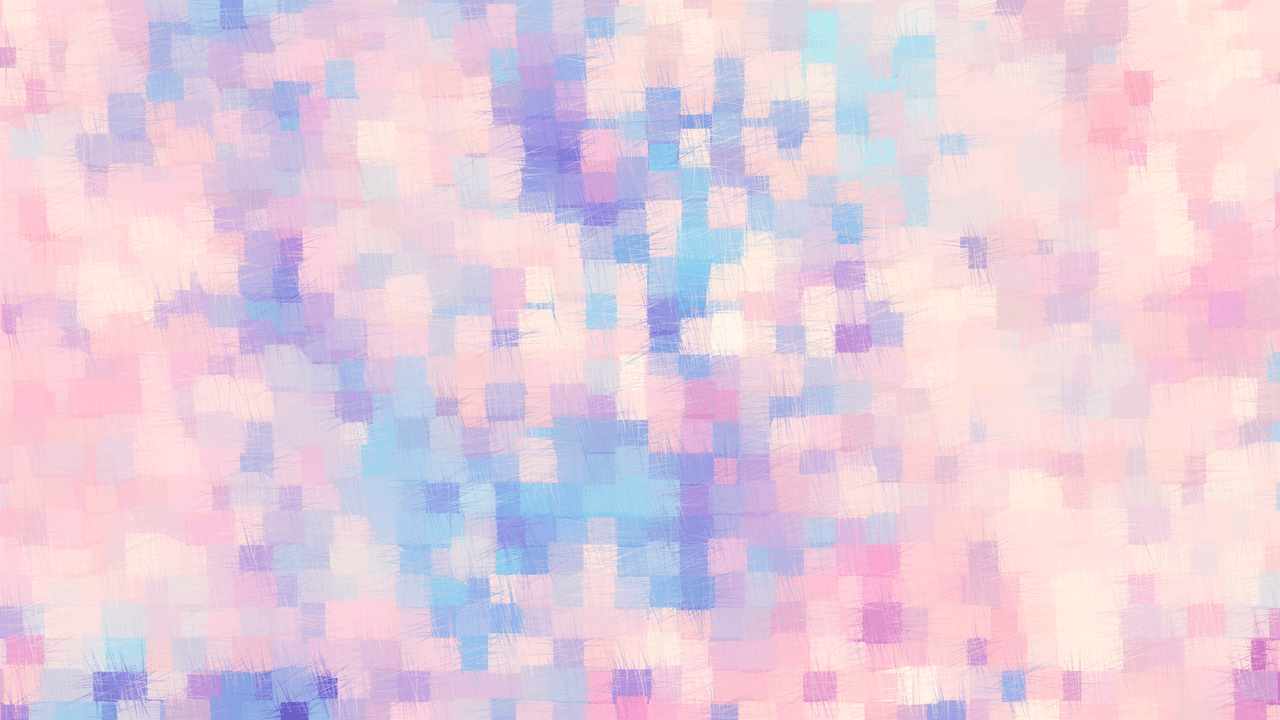
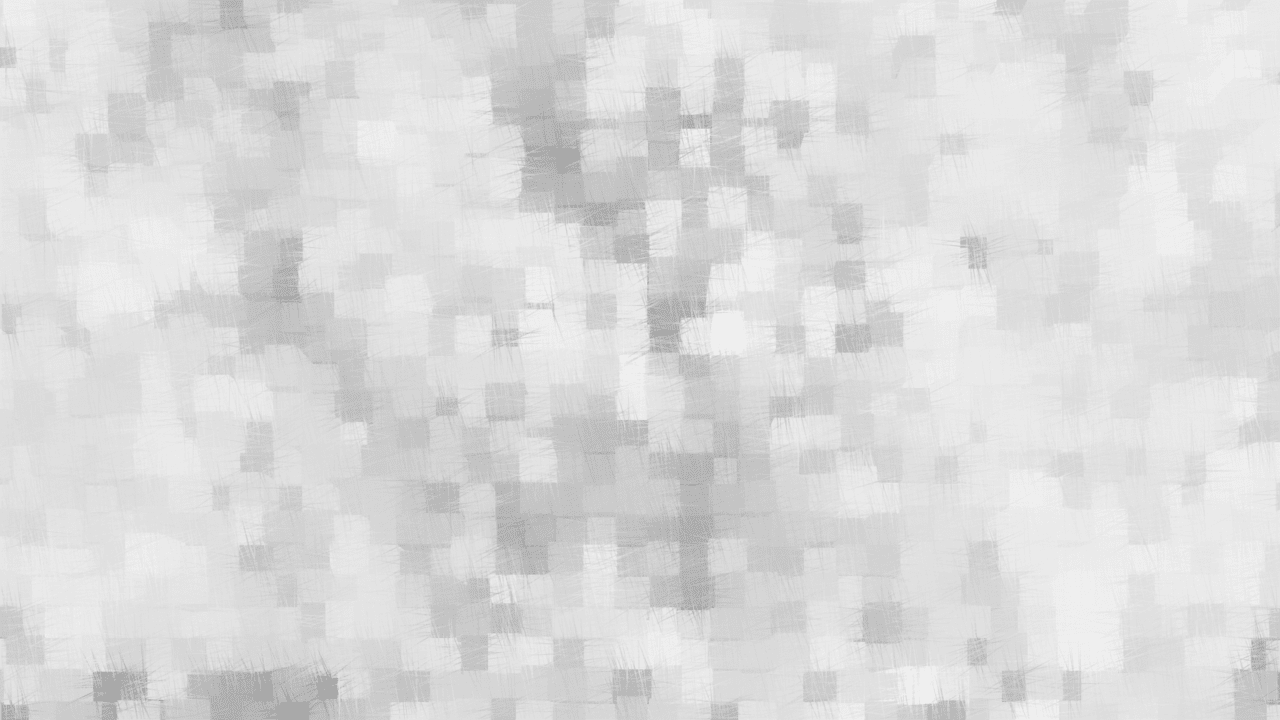
Replaced frontend for shoe display with 404 error

diff --git a/public/css/style.css b/public/css/style.css
@@ -71,29 +71,19 @@ body {
 	overflow: auto;
 }
 
-h1 {
-	user-select: none;
-}
-
 img {
-	width: 100%;
-	height: auto;
-}
-
-.shoe-img img {
-	width: 100%;
-	height: auto;
+	max-width: 100%;
+	max-height: 100%;
 
 	object-fit: cover;
 	object-position: center;
 	aspect-ratio: 1;
 
-	filter: contrast(1.25);
+	filter: contrast(1.125);
 }
 
 .view {
 	width: 100%;
-	/* height: calc(100% - 2rem); */
 }
 
 .container {
@@ -153,121 +143,6 @@ img {
 .max {
 	width: 100%;
 	height: 100%;
-}
-
-/* ========== SHOE CATALOG ========== */
-
-.shoe-card {
-	background: #fffa;
-
-	border: 1px solid black;
-	border-radius: 1rem;
-
-	width: 18rem;
-}
-
-.shoe-img {
-	background: #fff;
-	border: 1px solid #0008;
-	border-radius: 0.75rem;
-
-	overflow: hidden;
-}
-
-.shoe-img img {
-	object-fit: cover;
-	object-position: center;
-	aspect-ratio: 1;
-
-	filter: contrast(1.25);
-}
-
-/********** MESSAGES **********/
-
-.message {
-	background: var(--secondary-bg);
-	color: var(--secondary-fg);
-	border: var(--message-border) solid var(--secondary-fg);
-	border-radius: 0.5rem;
-
-	height: fit-content;
-	width: fit-content;
-	max-width: 100%;
-	padding: 0.5rem 1rem;
-
-	overflow: hidden;
-}
-
-.message.pre-animation {
-	border-width: 0;
-	height: 0;
-	width: 0;
-	padding: 0;
-	opacity: 0;
-}
-
-.message.error {
-	background: var(--error-bg);
-	color: var(--error-fg);
-	border-color: var(--error-fg);
-}
-
-.message.warning {
-	background: var(--warning-bg);
-	color: var(--warning-fg);
-	border-color: var(--warning-fg);
-}
-
-.message.success {
-	background: var(--success-bg);
-	color: var(--success-fg);
-	border-color: var(--success-fg);
-}
-
-.message.info {
-	background: var(--info-bg);
-	color: var(--info-fg);
-	border-color: var(--info-fg);
-}
-
-/********** TRANSITIONS / ANIMATIONS **********/
-
-.slide-in-out {
-	animation: slide-in-out var(--transition-time);
-}
-
-@keyframes slide-in-out {
-	0% {
-		border-width: 0;
-		height: 0;
-		width: 0;
-		padding: 0;
-		opacity: 0;
-	}
-
-	6.25% {
-		border-width: var(--message-border);
-		height: fit-content;
-		width: fit-content;
-		padding: 0.5em 1em;
-		opacity: 1;
-	}
-
-	87.5% {
-		border-width: var(--message-border);
-		height: fit-content;
-		width: fit-content;
-		padding: 0.5em 1em;
-		opacity: 1;
-	}
-
-	100% {
-		border-width: 0;
-		height: 0;
-		width: 0;
-		padding: 0;
-		opacity: 0;
-	}
 }
 
 /********** FUNCTIONALITY **********/

diff --git a/routes/catalog_routes.js b/routes/catalog_routes.js
@@ -1,21 +1,9 @@
 import { Router } from "express";
-import { services } from "../index.js";
-import axios from "axios";
 
 const router = Router();
 
-router.get('/', async (req, res) => {
-	try {
-		const host = `${req.protocol}://${req.get('host')}${req.originalUrl}`;
-		const shoes = (await axios.get(`${host}api/shoes`)).data;
-
-		res.render('index', {
-			title: "Shoe Catalog",
-			shoes
-		});
-	} catch (error) {
-		res.status(500).send('Error');
-	}
+router.get('/', (req, res) => {
+	res.render('index');
 });
 
 export default router;

diff --git a/routes/catalog_api.js b/routes/catalog_api.js
@@ -25,6 +25,11 @@ shoes_api.get('/brand/:brandname/size/:size', async (req, res) => {
 	res.status(200).send(await services.getShoes(filters));
 });
 
+shoes_api.get('/size/:size/brand/:brandname', async (req, res) => {
+	const filters = { brand: req.params.brandname, size: req.params.size };
+	res.status(200).send(await services.getShoes(filters));
+});
+
 // ========== CARTS API ROUTES ========== //
 
 carts_api.get('/', async (req, res) => {
